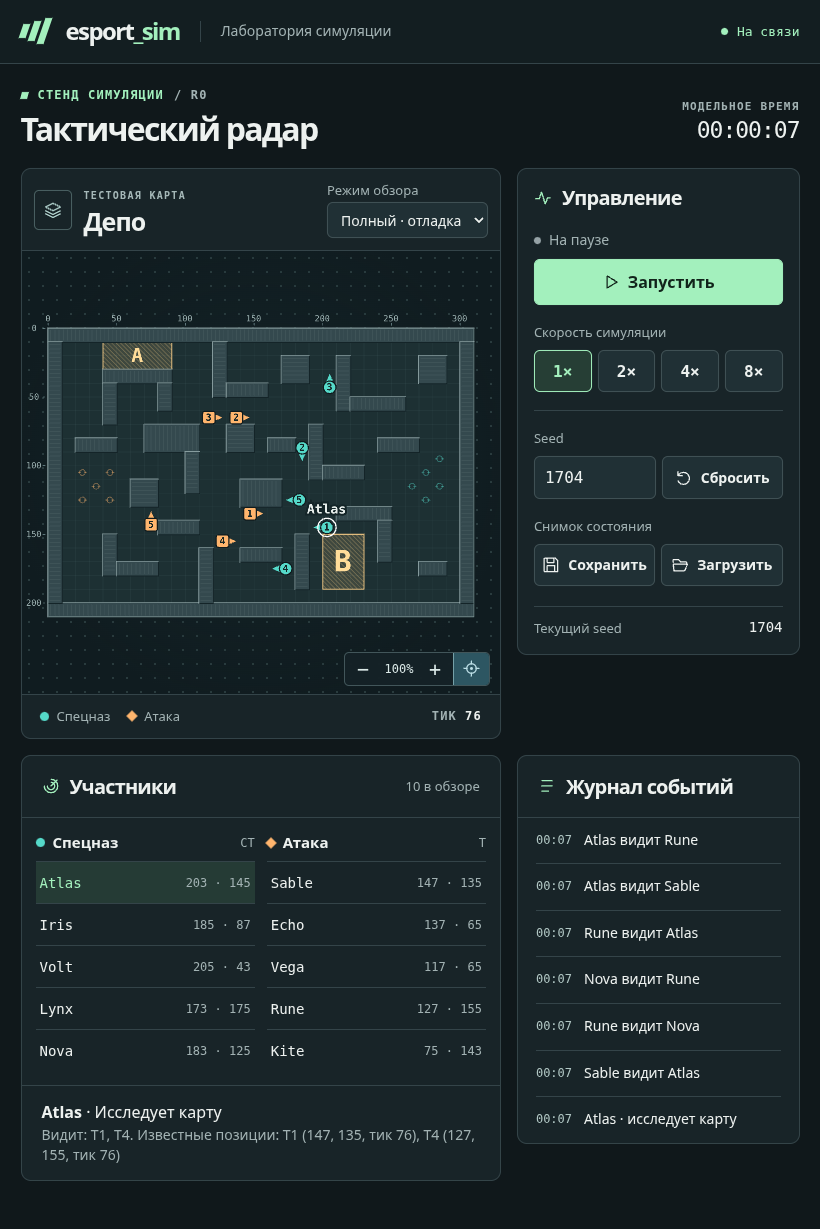
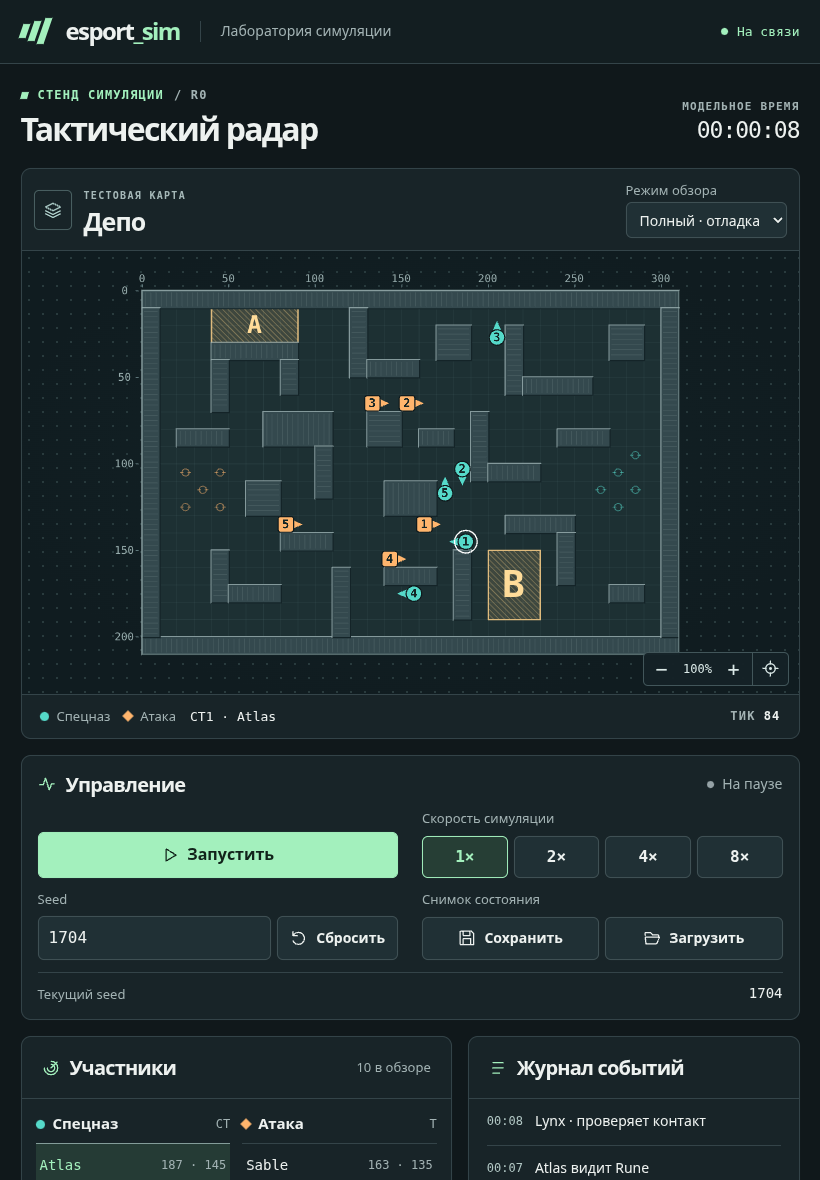
Verify touch controls, saved versions and cross-platform acceptance

diff --git a/frontend/src/Radar.tsx b/frontend/src/Radar.tsx
@@ -1,4 +1,4 @@
-import { useEffect, useRef, useState } from "react";
+import { useEffect, useRef, useState, type ReactNode } from "react";
 import { Application, Container, Graphics, Text } from "pixi.js";
 import "./radar.css";
 
@@ -153,11 +153,9 @@ function setupScene(
   let plan = drawPlan(props.map);
   const marks = new Graphics();
   const names = new Container();
-  const caption = label("", 13, 0xe7eeeb, "bold");
-  caption.style.stroke = { color: 0x142528, width: 4 };
   const textById = new Map<string, Text>();
   app.stage.addChild(world);
-  world.addChild(plan, marks, names, caption);
+  world.addChild(plan, marks, names);
   function draw() {
     const scale = fit * zoom;
     const { width, height } = app.screen;
@@ -175,7 +173,6 @@ function setupScene(
     host.dataset.panX = pan.x.toFixed(2);
     host.dataset.panY = pan.y.toFixed(2);
     marks.clear();
-    caption.visible = false;
     for (const t of textById.values()) t.visible = false;
     const radius = limit(4.5 * scale, 6.3, 13) / scale;
     for (const a of current.agents) {
@@ -193,10 +190,6 @@ function setupScene(
         marks
           .circle(x, y, radius * 1.45)
           .stroke({ color: 0xffffff, width: 1.3 / scale });
-        caption.visible = true;
-        caption.text = a.name;
-        caption.scale.set(1 / scale);
-        caption.position.set(x, y - radius * 1.5 - 9 / scale);
       }
       if (team === "T")
         marks.roundRect(
@@ -389,6 +382,41 @@ function bindNavigation(host: HTMLDivElement, api: RadarApi) {
   };
 }
 
+function CameraButton({ label, disabled, onActivate, children }: {
+  label: string;
+  disabled: boolean;
+  onActivate: () => void;
+  children: ReactNode;
+}) {
+  const start = useRef<Point | null>(null);
+  return (
+    <button type="button" disabled={disabled} aria-label={label} onClick={onActivate}
+      onTouchStart={event => {
+        const touch = event.touches[0];
+        start.current = event.touches.length === 1 ? {x: touch.clientX, y: touch.clientY} : null;
+      }}
+      onTouchMove={event => {
+        const point = start.current;
+        const touch = event.touches[0];
+        if (point && Math.hypot(point.x - touch.clientX, point.y - touch.clientY) > 8) {
+          start.current = null;
+        }
+      }}
+      onTouchCancel={() => { start.current = null; }}
+      onTouchEnd={event => {
+        // Some browsers suppress their compatibility click immediately after a map drag.
+        // Consume the touch's click here so a single tap always activates exactly once.
+        event.preventDefault();
+        const touch = event.changedTouches[0];
+        const target = document.elementFromPoint(touch.clientX, touch.clientY);
+        const activate = start.current && !event.touches.length && event.currentTarget.contains(target);
+        start.current = null;
+        if (!disabled && activate) onActivate();
+      }}
+    >{children}</button>
+  );
+}
+
 export default function Radar(props: Props) {
   const hostRef = useRef<HTMLDivElement>(null);
   const api = useRef<RadarApi | null>(null);
@@ -465,28 +493,25 @@ export default function Radar(props: Props) {
         role="group"
         aria-label="Управление картой"
       >
-        <button
-          type="button"
+        <CameraButton
           disabled={!ready || zoom <= 0.8}
-          aria-label="Уменьшить карту"
-          onClick={() => api.current?.zoomBy(0.8)}
+          label="Уменьшить карту"
+          onActivate={() => api.current?.zoomBy(0.8)}
         >
           −
-        </button>
+        </CameraButton>
         <output aria-label="Масштаб карты">{Math.round(zoom * 100)}%</output>
-        <button
-          type="button"
+        <CameraButton
           disabled={!ready || zoom >= 4}
-          aria-label="Увеличить карту"
-          onClick={() => api.current?.zoomBy(1.25)}
+          label="Увеличить карту"
+          onActivate={() => api.current?.zoomBy(1.25)}
         >
           +
-        </button>
-        <button
-          type="button"
+        </CameraButton>
+        <CameraButton
           disabled={!ready}
-          aria-label="Центрировать карту"
-          onClick={() => api.current?.reset()}
+          label="Центрировать карту"
+          onActivate={() => api.current?.reset()}
         >
           <svg
             viewBox="0 0 24 24"
@@ -501,7 +526,7 @@ export default function Radar(props: Props) {
             <path d="M12 2v5m0 10v5M2 12h5m10 0h5" />
             <circle cx="12" cy="12" r="1" />
           </svg>
-        </button>
+        </CameraButton>
       </div>
     </div>
   );

diff --git a/frontend/src/main.tsx b/frontend/src/main.tsx
@@ -174,6 +174,9 @@ function App() {
                     <i className="legend t" />
                     Атака
                   </span>
+                  {agent && <span className="selected-agent" aria-label={`Выбран ${agent.id} ${agent.name}`}>
+                    {agent.id} · {agent.name}
+                  </span>}
                   <span className="tick">
                     ТИК <b data-testid="tick">{world.tick}</b>
                   </span>

diff --git a/frontend/src/style.css b/frontend/src/style.css
@@ -264,12 +264,14 @@ h2 {
 }
 .mapfoot {
   justify-content: flex-start;
-  gap: 18px;
+  flex-wrap: wrap;
+  gap: 6px 14px;
   padding: 12px 18px;
   border-top: 1px solid var(--line);
   font-size: 13px;
   color: var(--muted);
 }
+.mapfoot .selected-agent { color: var(--ink); font: 13px var(--mono); }
 .mapfoot > span,
 .team h3 {
   display: flex;

diff --git a/tests/test_server.py b/tests/test_server.py
@@ -296,13 +296,13 @@ def test_cli_defaults_to_loopback_and_rejects_unauthenticated_network_start(tmp_
         try:
             with httpx.Client(trust_env=False, timeout=0.5) as client:
                 url = f"http://127.0.0.1:{port}/api/state"
-                until = time.monotonic() + 5
+                until = time.monotonic() + 15
                 while True:
                     try:
                         response = client.get(url)
                         response.raise_for_status()
                         break
-                    except httpx.ConnectError:
+                    except (httpx.ConnectError, httpx.ConnectTimeout, httpx.ReadTimeout):
                         assert process.poll() is None and time.monotonic() < until
                         time.sleep(0.04)
                 if lan_ip := os.environ.get("R0_TEST_LAN_IP"):
@@ -320,3 +320,19 @@ def test_cli_defaults_to_loopback_and_rejects_unauthenticated_network_start(tmp_
     for mode in ("lan", "remote"):
         attempt = subprocess.run([*args, "--mode", mode], capture_output=True, timeout=5)
         assert attempt.returncode != 0
+
+
+def test_incompatible_map_snapshot_cannot_replace_running_scenario(tmp_path):
+    import sqlite3
+    db = tmp_path / "world.sqlite3"
+    with local_server(db) as client:
+        send(client, "save")
+        before = snapshot(client)
+        with sqlite3.connect(db) as conn:
+            saved = json.loads(conn.execute("SELECT body FROM slot").fetchone()[0])
+            saved["world"]["map_version"] += 1
+            conn.execute("UPDATE slot SET body=?", (json.dumps(saved),))
+        command = envelope(before, "load")
+        assert client.post("/api/command", json=command).status_code == 409
+        assert client.get("/api/command/" + command["id"]).status_code == 404
+        assert snapshot(client) == before

diff --git a/backend/store.py b/backend/store.py
@@ -13,6 +13,16 @@ class Conflict(ValueError):
     pass
 
 
+def validate_snapshot(state):
+    world = state.get("world", {})
+    if (state.get("version"), world.get("version"), world.get("map_version")) != (
+        1,
+        engine.VERSION,
+        engine.MAP["version"],
+    ):
+        raise Conflict("Несовместимая версия снимка, ядра или геометрии")
+
+
 class Store:
     def __init__(self, path: Path):
         self.db = sqlite3.connect(path, isolation_level=None, check_same_thread=False)
@@ -24,7 +34,14 @@ class Store:
             CREATE TABLE IF NOT EXISTS device (digest TEXT PRIMARY KEY);
             CREATE TABLE IF NOT EXISTS invitation (digest TEXT PRIMARY KEY, expires INTEGER NOT NULL);
         """)
-        if not self.db.execute("SELECT 1 FROM active").fetchone():
+        existing = self.db.execute("SELECT body FROM active WHERE id=1").fetchone()
+        if existing:
+            try:
+                validate_snapshot(json.loads(existing[0]))
+            except (ValueError, TypeError, AttributeError):
+                self.db.close()
+                raise
+        else:
             self.write(
                 dict(
                     version=1,
@@ -118,8 +135,7 @@ class Store:
                 if not row:
                     raise Conflict("Нет сохранения")
                 saved = json.loads(row[0])
-                if saved["version"] != state["version"]:
-                    raise Conflict("Версия снимка несовместима")
+                validate_snapshot(saved)
                 state.update(saved)
                 state["context"] = str(uuid4())
             elif kind == "reset":

diff --git a/backend/server.py b/backend/server.py
@@ -1,5 +1,4 @@
 import asyncio
-import hashlib
 import ipaddress
 import secrets
 from contextlib import asynccontextmanager, suppress
@@ -14,7 +13,7 @@ from fastapi.staticfiles import StaticFiles
 from pydantic import BaseModel, ConfigDict, StrictInt
 
 from .engine import TICK_SECONDS
-from .host import own_clock, issue_code
+from .host import own_clock, issue_code, digest
 from .store import Conflict, Store
 
 View = Literal["full", "T", "CT"]
@@ -32,10 +31,6 @@ class Command(BaseModel):
 
 class Pair(BaseModel):
     code: str
-
-
-def digest(token):
-    return hashlib.sha256(token.encode()).hexdigest()
 
 
 def create_app(db_path: Path, mode="local", origins=(), pairing_code=None):

diff --git a/backend/host.py b/backend/host.py
@@ -1,5 +1,6 @@
 """OS ownership of the simulation clock; administrative commands use SQLite."""
 
+import hashlib
 import os
 from contextlib import contextmanager
 from pathlib import Path
@@ -31,8 +32,10 @@ def own_clock(db_path: Path):
         yield
 
 
-def issue_code(db, code):
-    from .server import digest
+def digest(token):
+    return hashlib.sha256(token.encode()).hexdigest()
 
+
+def issue_code(db, code):
     db.execute("DELETE FROM invitation")
     db.execute("INSERT INTO invitation VALUES(?, unixepoch()+600)", (digest(code),))
